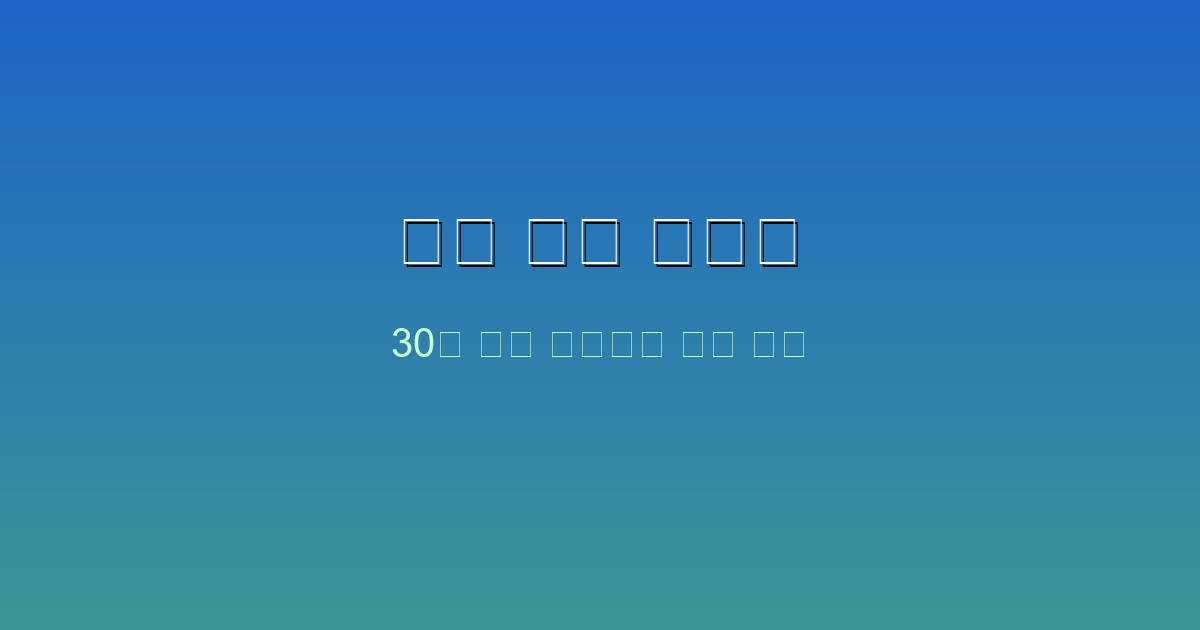
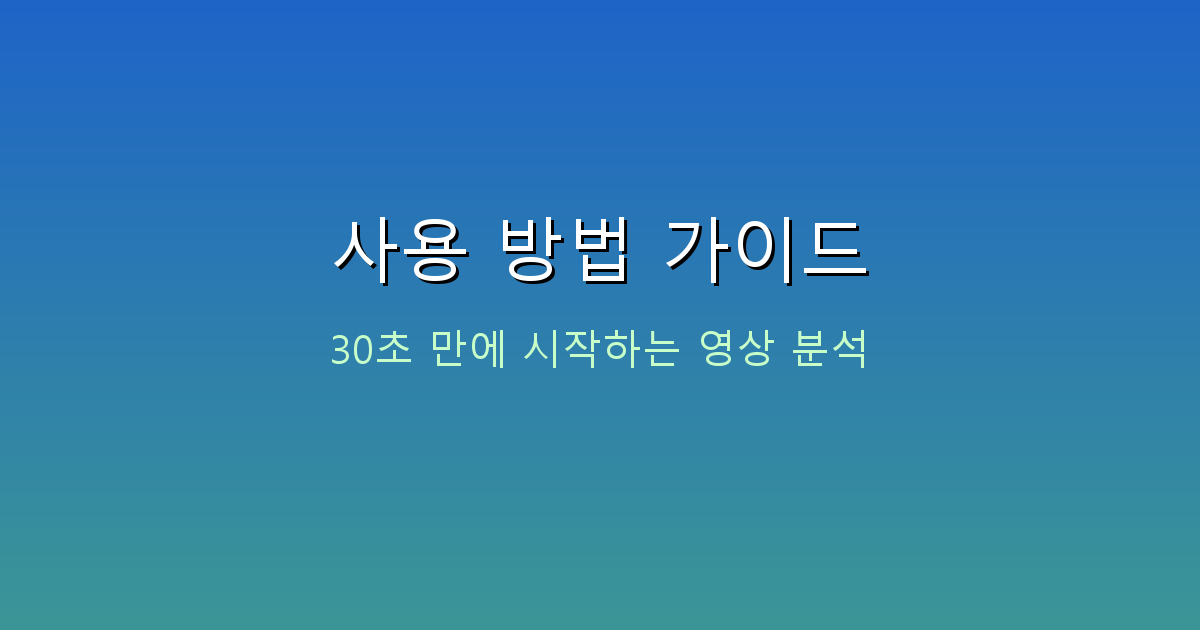
Fix Korean font in OG images - use Malgun Gothic

Changed region(s): [[0.2775, 0.3317, 0.74, 0.4524], [0.2775, 0.5127, 0.74, 0.6032]]

diff --git a/create_og_images.py b/create_og_images.py
@@ -23,16 +23,23 @@ def create_og_image():
     overlay = Image.new('RGBA', (width, height), (0, 0, 0, 100))
     img.paste(overlay, (0, 0), overlay)
     
-    # 폰트 로드 시도
+    # 한글 폰트 로드 (Windows 시스템 폰트)
     try:
-        title_font = ImageFont.truetype("arial.ttf", 80)
-        subtitle_font = ImageFont.truetype("arial.ttf", 45)
-        desc_font = ImageFont.truetype("arial.ttf", 32)
+        # Windows에서 한글 지원 폰트 시도
+        title_font = ImageFont.truetype("C:/Windows/Fonts/malgun.ttf", 80)  # 맑은 고딕
+        subtitle_font = ImageFont.truetype("C:/Windows/Fonts/malgun.ttf", 45)
+        desc_font = ImageFont.truetype("C:/Windows/Fonts/malgun.ttf", 32)
     except:
-        # 폰트 로드 실패 시 기본 폰트
-        title_font = ImageFont.load_default()
-        subtitle_font = ImageFont.load_default()
-        desc_font = ImageFont.load_default()
+        try:
+            # 맑은 고딕이 없으면 굴림 시도
+            title_font = ImageFont.truetype("C:/Windows/Fonts/gulim.ttc", 80)
+            subtitle_font = ImageFont.truetype("C:/Windows/Fonts/gulim.ttc", 45)
+            desc_font = ImageFont.truetype("C:/Windows/Fonts/gulim.ttc", 32)
+        except:
+            # 모두 실패 시 기본 폰트
+            title_font = ImageFont.load_default()
+            subtitle_font = ImageFont.load_default()
+            desc_font = ImageFont.load_default()
     
     # 텍스트 그리기
     # 메인 타이틀
@@ -101,11 +108,15 @@ def create_guide_og_image():
         draw.rectangle([(0, y), (width, y+1)], fill=(r, g, b))
     
     try:
-        title_font = ImageFont.truetype("arial.ttf", 70)
-        subtitle_font = ImageFont.truetype("arial.ttf", 40)
+        title_font = ImageFont.truetype("C:/Windows/Fonts/malgun.ttf", 70)
+        subtitle_font = ImageFont.truetype("C:/Windows/Fonts/malgun.ttf", 40)
     except:
-        title_font = ImageFont.load_default()
-        subtitle_font = ImageFont.load_default()
+        try:
+            title_font = ImageFont.truetype("C:/Windows/Fonts/gulim.ttc", 70)
+            subtitle_font = ImageFont.truetype("C:/Windows/Fonts/gulim.ttc", 40)
+        except:
+            title_font = ImageFont.load_default()
+            subtitle_font = ImageFont.load_default()
     
     title = "사용 방법 가이드"
     title_bbox = draw.textbbox((0, 0), title, font=title_font)
@@ -137,11 +148,15 @@ def create_api_guide_og_image():
         draw.rectangle([(0, y), (width, y+1)], fill=(r, g, b))
     
     try:
-        title_font = ImageFont.truetype("arial.ttf", 70)
-        subtitle_font = ImageFont.truetype("arial.ttf", 40)
+        title_font = ImageFont.truetype("C:/Windows/Fonts/malgun.ttf", 70)
+        subtitle_font = ImageFont.truetype("C:/Windows/Fonts/malgun.ttf", 40)
     except:
-        title_font = ImageFont.load_default()
-        subtitle_font = ImageFont.load_default()
+        try:
+            title_font = ImageFont.truetype("C:/Windows/Fonts/gulim.ttc", 70)
+            subtitle_font = ImageFont.truetype("C:/Windows/Fonts/gulim.ttc", 40)
+        except:
+            title_font = ImageFont.load_default()
+            subtitle_font = ImageFont.load_default()
     
     title = "API 키 발급 가이드"
     title_bbox = draw.textbbox((0, 0), title, font=title_font)
